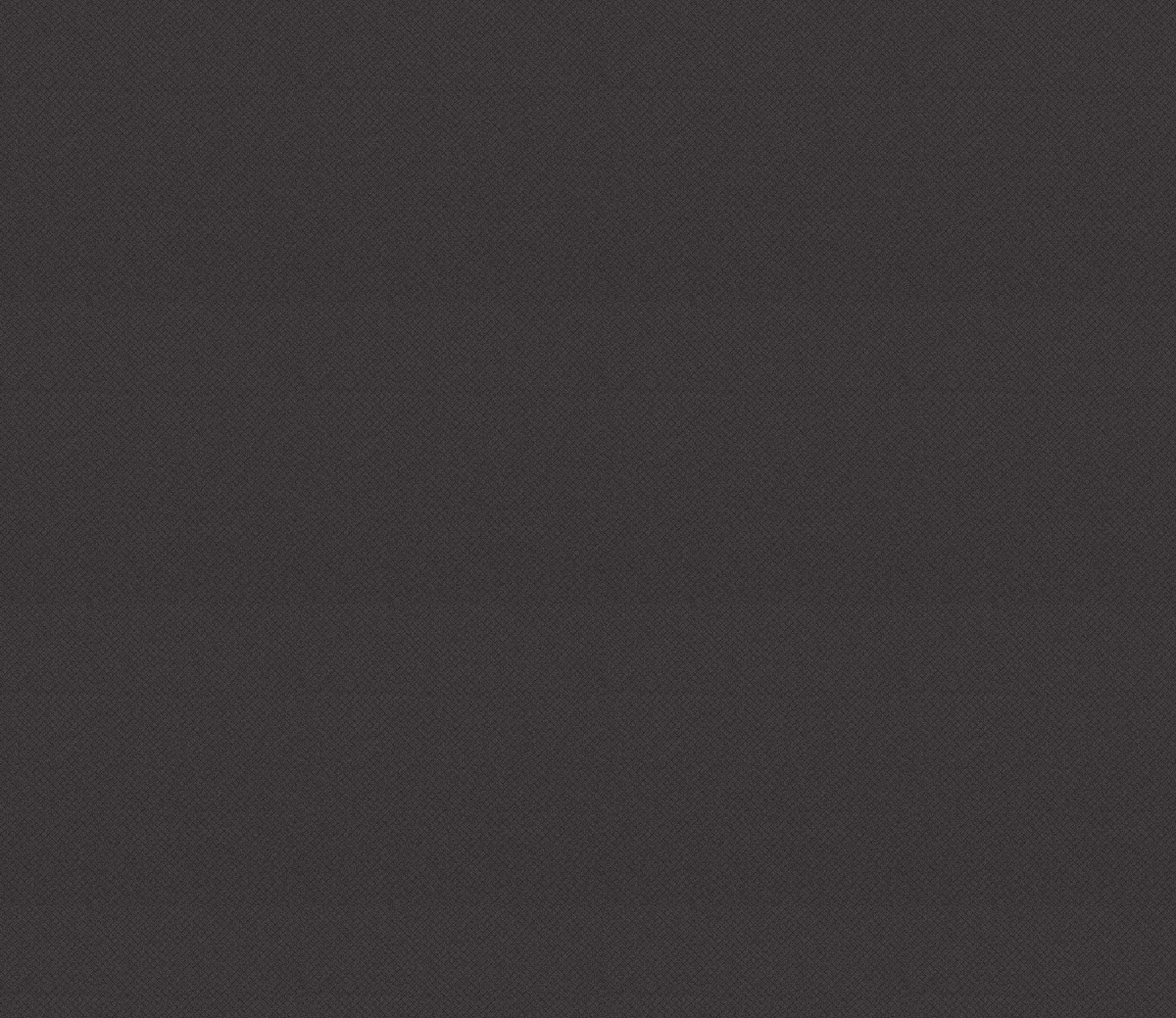
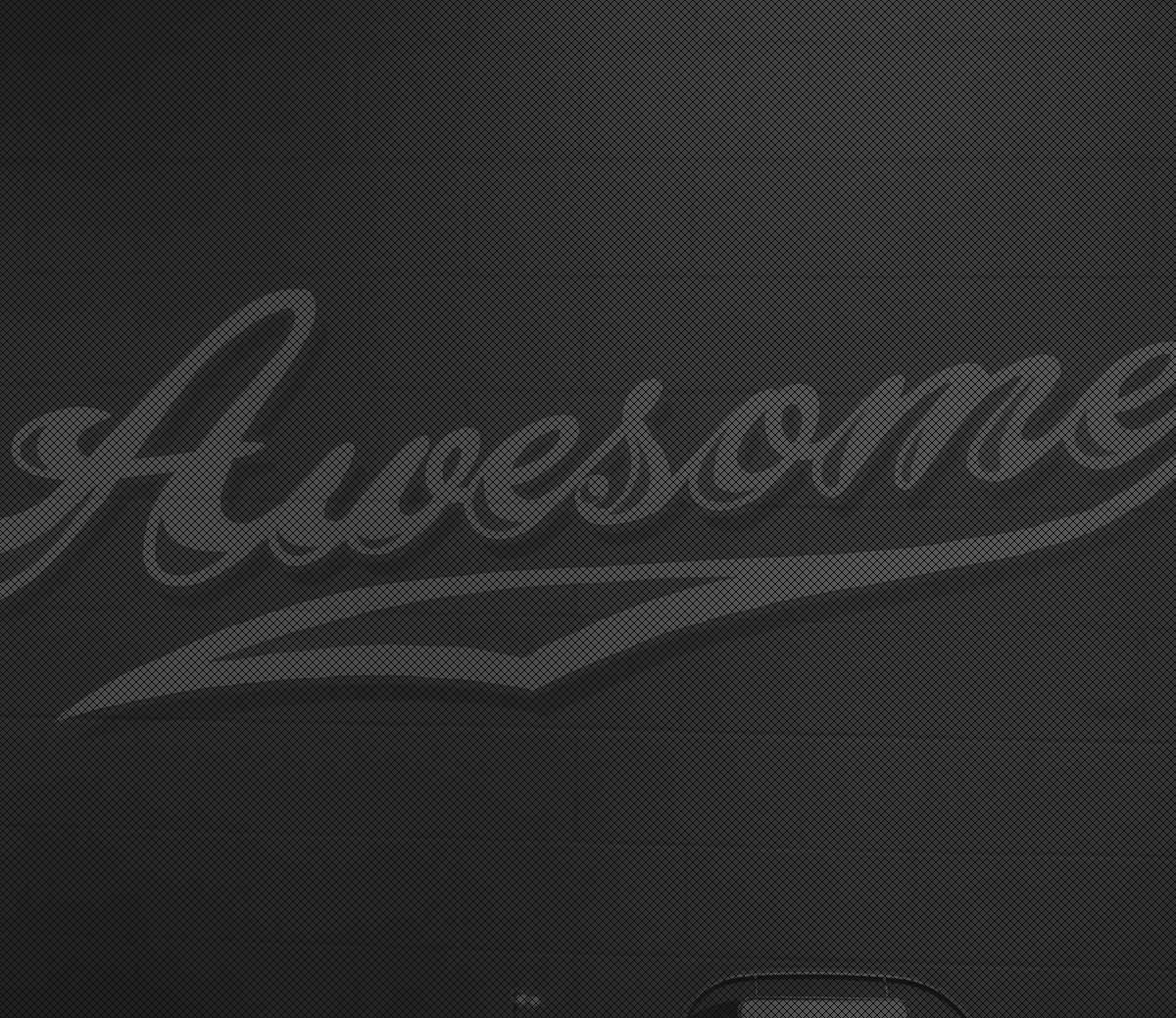
updated images

diff --git a/css/styles.css b/css/styles.css
@@ -1,1 +1,1 @@
-html,body{height:100%;padding:0;margin:0;font-family:'Open Sans', sans-serif;font-size:100%;color:#292929;letter-spacing:.02em}*{-webkit-box-sizing:border-box;-moz-box-sizing:border-box;box-sizing:border-box}img{max-width:100%}a{color:#3faeec;text-decoration:none}a:hover{color:#1699e2}.button{width:100%;margin:0 0 1em;display:inline-block;background:#3faeec;color:#FFF;padding:0.5em 1em;border-radius:0.2em;font-size:1.1em;text-transform:uppercase;font-weight:500;-webkit-transition:.4s;transition:.4s}@media (min-width: 480px){.button{width:auto;margin:0 0.5em 1em}}.button:first-of-type{margin-left:0}.button:hover{background-color:#1699e2;text-shadow:0px 1px 1px #187ba3;color:#FFF}h1,h2,h3,h4,h5,h6{font-weight:normal}.title{font-size:2em;text-align:left}.video{position:relative;width:100%;padding:0;padding-top:75%}.video iframe{position:absolute;top:0;left:0;width:100%;height:100%}#wemake{margin:2em 0 1em 0}.left{float:left}#header{position:absolute;width:100%;z-index:100;padding:1rem}@media (min-width: 1024px){#header.fixed{position:fixed}}#home{display:none}@media (min-width: 768px){#home{float:left;color:#FFF;border:1px solid #FFF;border-radius:3px;padding:0.5em 1em;display:block}#home:hover{background:#FFF;color:#da4a8f}}#welcome{background-color:#222;margin:0px auto;padding:1rem;padding-top:80px}#welcome header{color:#FFF;font-size:1em}#welcome header h1,#welcome header h2{text-align:center;margin:1em auto}#welcome header h2{margin-bottom:0}#welcome header h1{font-size:1.6em;max-width:600px}#welcome header h1 a{color:#da4a8f}.menu a{margin-right:1em;font-size:0.75em}@media (min-width: 480px){.menu a{font-size:0.9em}}@media (min-width: 1024px){#welcome{width:50%;position:fixed;top:0;left:0;bottom:0;padding:2rem}#welcome header{position:absolute;bottom:1rem;padding:1rem 2rem;left:0;font-size:1.4em}#welcome header h1,#welcome header h2{text-align:left;margin:1em 0 0}}#projects{float:right}@media (min-width: 1024px){#projects{margin-left:50%;padding:0px}}#projects h1{font-size:5rem;margin:0}#project_list{list-style-type:none;margin:0;padding:0}#project_list li{margin-top:3rem;margin-bottom:3rem;padding:0 2rem 2rem 2rem;border-bottom:1px solid #e4e4e4}#project_list li.centered{text-align:center}#project_list li.unpadded{padding-left:0;padding-right:0;padding-bottom:0}#project_list li.unpadded h3{padding-left:2rem;padding-right:2rem}#project_list li.nobottom{border-bottom:0;padding-bottom:0;margin-bottom:0}#project_list li.hr{padding:0;border:0}#project_list li:first-child{border-bottom:0}#project_list li:last-child{border-bottom:0}#project_list li ul{list-style-type:none;padding:0;margin:0}#project_list li ul:after{display:table;clear:both;content:' '}#project_list li .featured_posts li{background:#F4F0F1;border:0;margin:0 0 2px;padding:1rem 2rem}#project_list li .featured_posts li a{display:block;text-transform:uppercase;font-size:1.25em}#project_list li .github li{padding:1rem 0;margin:0;border-bottom:0;font-size:24px;text-align:left}@media (min-width: 480px){#project_list li .github li{float:left;width:50%}}#project_list a{text-decoration:none}#project_list h1{padding:1rem}#project_list h2{padding:0rem}#project_list p{padding:1rem 0;text-align:left;margin:0px auto;font-size:1.2em;line-height:1.6em;letter-spacing:.01em}div.tagsinput{border:1px solid #CCC;background:#FFF;padding:1em;margin-bottom:1em;width:300px;height:100px;overflow-y:auto}div.tagsinput span.tag{border:1px solid #a5d24a;-moz-border-radius:2px;-webkit-border-radius:2px;display:block;float:left;padding:0.5em;text-decoration:none;background:#cde69c;color:#638421;margin-right:0.5em;margin-bottom:0.5em;font-size:1.5em}div.tagsinput span.tag a{font-weight:bold;color:#82ad2b;text-decoration:none;font-size:1em}div.tagsinput input{width:80px;margin:0px;font-family:helvetica;border:1px solid transparent;padding:5px;background:transparent;color:#000;outline:0px;padding:0.5em;margin-right:0.5em;margin-bottom:0.5em;font-size:1.5em}div.tagsinput div{display:block;float:left}.tags_clear{clear:both;width:100%;height:0px}.not_valid{background:#FBD8DB !important;color:#90111A !important}.article{max-width:44em;margin:0 auto;margin-top:-5em;font-size:1.25em;background-color:#fff;padding:1em 4em;font-weight:400;border-radius:5px}.article:after{display:table;clear:both;content:' '}.article h1{font-size:3em;text-transform:uppercase;font-weight:600;margin:0}.article p{line-height:150%}.article p:first-of-type{font-weight:600}.article blockquote{margin-left:-2em;margin-right:-2em;text-align:justify;font-size:1.25em;color:#da4a8f}.article a{-webkit-transition:background 0.5s linear;transition:background 0.5s linear}.article a:hover{background:#b3e0f8}.coverimg{background-image:url(img/bigheader.jpg);background-position:center top;height:300px;z-index:-1}@media (min-width: 1000px){.coverimg{background-attachment:fixed}}.bio{margin-bottom:1em}@media (min-width: 640px){.bio img{float:left;max-width:30%;margin-right:1em}}.bio:after{display:table;clear:both;content:' '}.bio .third{margin-bottom:2em;margin-top:.5em}.about{max-width:44em;margin:0 auto;font-size:1.25em;background-color:#fff;padding:1em 4em;font-weight:400;color:#383535}.about img{-webkit-filter:grayscale(100%);filter:grayscale(100%);-webkit-transition:all 0.5s linear;transition:all 0.5s linear}.bio:hover img{-webkit-filter:grayscale(50%);filter:grayscale(50%)}.about .social img{width:34px;float:right;-webkit-filter:grayscale(0%);filter:grayscale(0%);margin-top:-28px}.about h1{margin:-5px 0;font-weight:200;font-size:1.5em;padding:10px 0 0 0}.about h2{margin:0;font-weight:200;color:#777;font-size:1.2em}.about p{font-size:18px;padding:5px}.about2{float:none}.social{width:100%}.social li{float:left;margin:0px auto}@media (max-width: 800px){.article{padding:1em}.article blockquote{margin-left:0;margin-right:0}.about{margin:0 1em;padding:0}.third{max-width:45%}#welcome header{font-size:1em}}@media (max-width: 530px){.article{margin-top:-10em}.article blockquote{text-align:left}.third{max-width:100%}#project_list li li{width:100%}}#footer{padding:2em 0;font-size:0.9em}#footer:after{display:table;clear:both;content:' '}#footer .thirds{text-align:center;padding:0.5em 0 0}@media (min-width: 760px){#footer .thirds{padding:0;width:33%;float:left}}ul#animated_logo{display:block;list-style-type:none;margin:0px auto;padding:0;position:relative;width:396px;max-width:100%;height:77px}ul#animated_logo li{position:relative;display:block;max-width:-webkit-calc(20% - 2px);max-width:calc(20% - 2px);width:77px;height:77px;margin-right:2px;top:-80px;float:left;-webkit-transition:all 0.5s ease;transition:all 0.5s ease}@media (min-width: 1024px){ul#animated_logo{margin:0px}.centered ul#animated_logo{margin:0px auto}}
+html,body{height:100%;padding:0;margin:0;font-family:'Open Sans', sans-serif;font-size:100%;color:#292929;letter-spacing:.02em}*{-webkit-box-sizing:border-box;-moz-box-sizing:border-box;box-sizing:border-box}img{max-width:100%}a{color:#3faeec;text-decoration:none}a:hover{color:#1699e2}.button{width:100%;margin:0 0 1em;display:inline-block;background:#3faeec;color:#FFF;padding:0.5em 1em;border-radius:0.2em;font-size:1.1em;text-transform:uppercase;font-weight:500;-webkit-transition:.4s;transition:.4s}@media (min-width: 480px){.button{width:auto;margin:0 0.5em 1em}}.button:first-of-type{margin-left:0}.button:hover{background-color:#1699e2;text-shadow:0px 1px 1px #187ba3;color:#FFF}h1,h2,h3,h4,h5,h6{font-weight:normal}.title{font-size:2em;text-align:left}.video{position:relative;width:100%;padding:0;padding-top:75%}.video iframe{position:absolute;top:0;left:0;width:100%;height:100%}#wemake{margin:2em 0 1em 0}.left{float:left}.typeform-widget{border:1px solid #3faeec}#header{position:absolute;width:100%;z-index:100;padding:1rem}@media (min-width: 1024px){#header.fixed{position:fixed}}#home{display:none}@media (min-width: 768px){#home{float:left;color:#FFF;background-color:#3faeec;border:1px solid #FFF;border-radius:3px;padding:0.5em 1em;display:block}#home:hover{background-color:#1699e2}}#welcome{background-position:bottom right;background-repeat:no-repeat;background-color:#222;margin:0px auto;padding:1rem;padding-top:80px}#welcome header{color:#FFF;font-size:1em}#welcome header h1,#welcome header h2{text-align:center;margin:1em auto}#welcome header h2{margin-bottom:0}#welcome header h1{font-size:1.6em;max-width:600px}#welcome header h1 a{color:#eb008b}.menu a{margin-right:1em;font-size:0.75em}@media (min-width: 480px){.menu a{font-size:0.9em}}@media (min-width: 1024px){#welcome{width:50%;position:fixed;top:0;left:0;bottom:0;padding:2rem}#welcome header{position:absolute;bottom:1rem;padding:1rem 2rem;left:0;font-size:1.4em}#welcome header h1,#welcome header h2{text-align:left;margin:1em 0 0}}#projects{float:right}@media (min-width: 1024px){#projects{margin-left:50%;padding:0px}}#projects h1{font-size:5rem;margin:0}#project_list{list-style-type:none;margin:0;padding:0}#project_list li{margin-top:3rem;margin-bottom:3rem;padding:0 2rem 2rem 2rem;border-bottom:1px solid #e4e4e4}#project_list li.centered{text-align:center}#project_list li.unpadded{padding-left:0;padding-right:0;padding-bottom:0}#project_list li.unpadded h3{padding-left:2rem;padding-right:2rem}#project_list li.nobottom{border-bottom:0;padding-bottom:0;margin-bottom:0}#project_list li.hr{padding:0;border:0}#project_list li:first-child{border-bottom:0}#project_list li:last-child{border-bottom:0}#project_list li ul{list-style-type:none;padding:0;margin:0}#project_list li ul:after{display:table;clear:both;content:' '}#project_list li .featured_posts li{background:#F4F0F1;border:0;margin:0 0 2px;padding:1rem 2rem}#project_list li .featured_posts li a{display:block;text-transform:uppercase;font-size:1.25em}#project_list li .github li{padding:1rem 0;margin:0;border-bottom:0;font-size:24px;text-align:left}@media (min-width: 480px){#project_list li .github li{float:left;width:50%}}#project_list a{text-decoration:none}#project_list h1{padding:1rem}#project_list h2{padding:0rem}#project_list p{padding:1rem 0;text-align:left;margin:0px auto;font-size:1.2em;line-height:1.6em;letter-spacing:.01em}div.tagsinput{border:1px solid #CCC;background:#FFF;padding:1em;margin-bottom:1em;width:300px;height:100px;overflow-y:auto}div.tagsinput span.tag{border:1px solid #a5d24a;-moz-border-radius:2px;-webkit-border-radius:2px;display:block;float:left;padding:0.5em;text-decoration:none;background:#cde69c;color:#638421;margin-right:0.5em;margin-bottom:0.5em;font-size:1.5em}div.tagsinput span.tag a{font-weight:bold;color:#82ad2b;text-decoration:none;font-size:1em}div.tagsinput input{width:80px;margin:0px;font-family:helvetica;border:1px solid transparent;padding:5px;background:transparent;color:#000;outline:0px;padding:0.5em;margin-right:0.5em;margin-bottom:0.5em;font-size:1.5em}div.tagsinput div{display:block;float:left}.tags_clear{clear:both;width:100%;height:0px}.not_valid{background:#FBD8DB !important;color:#90111A !important}.article{max-width:44em;margin:0 auto;margin-top:-5em;font-size:1.25em;background-color:#fff;padding:1em 4em;font-weight:400;border-radius:5px}.article:after{display:table;clear:both;content:' '}.article h1{font-size:3em;text-transform:uppercase;font-weight:600;margin:0}.article p{line-height:150%}.article p:first-of-type{font-weight:600}.article blockquote{margin-left:-2em;margin-right:-2em;text-align:justify;font-size:1.25em;color:#eb008b}.article a{-webkit-transition:background 0.5s linear;transition:background 0.5s linear}.article a:hover{background:#b3e0f8}.coverimg{background-color:#eb008b;background-image:url(img/dispatchgray_360.png);background-position:center top;height:300px;z-index:-1}@media (min-width: 1000px){.coverimg{background-attachment:fixed}}.bio{margin-bottom:1em}@media (min-width: 640px){.bio img{float:left;max-width:30%;margin-right:1em}}.bio:after{display:table;clear:both;content:' '}.bio .third{margin-bottom:2em;margin-top:.5em}.about{max-width:44em;margin:0 auto;font-size:1.25em;background-color:#fff;padding:1em 4em;font-weight:400;color:#383535}.about img{-webkit-filter:grayscale(100%);filter:grayscale(100%);-webkit-transition:all 0.5s linear;transition:all 0.5s linear}.bio:hover img{-webkit-filter:grayscale(50%);filter:grayscale(50%)}.about .social img{width:34px;float:right;-webkit-filter:grayscale(0%);filter:grayscale(0%);margin-top:-28px}.about h1{margin:-5px 0;font-weight:200;font-size:1.5em;padding:10px 0 0 0}.about h2{margin:0;font-weight:200;color:#777;font-size:1.2em}.about p{font-size:18px;padding:5px}.about2{float:none}.social{width:100%}.social li{float:left;margin:0px auto}@media (max-width: 800px){.article{padding:1em}.article blockquote{margin-left:0;margin-right:0}.about{margin:0 1em;padding:0}.third{max-width:45%}#welcome header{font-size:1em}}@media (max-width: 530px){.article{margin-top:-10em}.article blockquote{text-align:left}.third{max-width:100%}#project_list li li{width:100%}}#footer{padding:2em 0;font-size:0.9em}#footer:after{display:table;clear:both;content:' '}#footer .thirds{text-align:center;padding:0.5em 0 0}@media (min-width: 760px){#footer .thirds{padding:0;width:33%;float:left}}ul#animated_logo{display:block;list-style-type:none;margin:0px auto;padding:0;position:relative;width:396px;max-width:100%;height:77px}ul#animated_logo li{position:relative;display:block;max-width:-webkit-calc(20% - 2px);max-width:calc(20% - 2px);width:77px;height:77px;margin-right:2px;top:-80px;float:left;-webkit-transition:all 0.5s ease;transition:all 0.5s ease}@media (min-width: 1024px){ul#animated_logo{margin:0px}.centered ul#animated_logo{margin:0px auto}}

diff --git a/css/styles.pre.css b/css/styles.pre.css
@@ -1,1 +1,1 @@
-html,body{height:100%;padding:0;margin:0;font-family:'Open Sans', sans-serif;font-size:100%;color:#292929;letter-spacing:.02em}*{box-sizing:border-box}img{max-width:100%}a{color:#3faeec;text-decoration:none}a:hover{color:#1699e2}.button{width:100%;margin:0 0 1em;display:inline-block;background:#3faeec;color:#FFF;padding:0.5em 1em;border-radius:0.2em;font-size:1.1em;text-transform:uppercase;font-weight:500;transition:.4s}@media (min-width: 480px){.button{width:auto;margin:0 0.5em 1em}}.button:first-of-type{margin-left:0}.button:hover{background-color:#1699e2;text-shadow:0px 1px 1px #187ba3;color:#FFF}h1,h2,h3,h4,h5,h6{font-weight:normal}.title{font-size:2em;text-align:left}.video{position:relative;width:100%;padding:0;padding-top:75%}.video iframe{position:absolute;top:0;left:0;width:100%;height:100%}#wemake{margin:2em 0 1em 0}.left{float:left}#header{position:absolute;width:100%;z-index:100;padding:1rem}@media (min-width: 1024px){#header.fixed{position:fixed}}#home{display:none}@media (min-width: 768px){#home{float:left;color:#FFF;border:1px solid #FFF;border-radius:3px;padding:0.5em 1em;display:block}#home:hover{background:#FFF;color:#da4a8f}}#welcome{background-color:#222;margin:0px auto;padding:1rem;padding-top:80px}#welcome header{color:#FFF;font-size:1em}#welcome header h1,#welcome header h2{text-align:center;margin:1em auto}#welcome header h2{margin-bottom:0}#welcome header h1{font-size:1.6em;max-width:600px}#welcome header h1 a{color:#da4a8f}.menu a{margin-right:1em;font-size:0.75em}@media (min-width: 480px){.menu a{font-size:0.9em}}@media (min-width: 1024px){#welcome{width:50%;position:fixed;top:0;left:0;bottom:0;padding:2rem}#welcome header{position:absolute;bottom:1rem;padding:1rem 2rem;left:0;font-size:1.4em}#welcome header h1,#welcome header h2{text-align:left;margin:1em 0 0}}#projects{float:right}@media (min-width: 1024px){#projects{margin-left:50%;padding:0px}}#projects h1{font-size:5rem;margin:0}#project_list{list-style-type:none;margin:0;padding:0}#project_list li{margin-top:3rem;margin-bottom:3rem;padding:0 2rem 2rem 2rem;border-bottom:1px solid #e4e4e4}#project_list li.centered{text-align:center}#project_list li.unpadded{padding-left:0;padding-right:0;padding-bottom:0}#project_list li.unpadded h3{padding-left:2rem;padding-right:2rem}#project_list li.nobottom{border-bottom:0;padding-bottom:0;margin-bottom:0}#project_list li.hr{padding:0;border:0}#project_list li:first-child{border-bottom:0}#project_list li:last-child{border-bottom:0}#project_list li ul{list-style-type:none;padding:0;margin:0}#project_list li ul:after{display:table;clear:both;content:' '}#project_list li .featured_posts li{background:#F4F0F1;border:0;margin:0 0 2px;padding:1rem 2rem}#project_list li .featured_posts li a{display:block;text-transform:uppercase;font-size:1.25em}#project_list li .github li{padding:1rem 0;margin:0;border-bottom:0;font-size:24px;text-align:left}@media (min-width: 480px){#project_list li .github li{float:left;width:50%}}#project_list a{text-decoration:none}#project_list h1{padding:1rem}#project_list h2{padding:0rem}#project_list p{padding:1rem 0;text-align:left;margin:0px auto;font-size:1.2em;line-height:1.6em;letter-spacing:.01em}div.tagsinput{border:1px solid #CCC;background:#FFF;padding:1em;margin-bottom:1em;width:300px;height:100px;overflow-y:auto}div.tagsinput span.tag{border:1px solid #a5d24a;-moz-border-radius:2px;-webkit-border-radius:2px;display:block;float:left;padding:0.5em;text-decoration:none;background:#cde69c;color:#638421;margin-right:0.5em;margin-bottom:0.5em;font-size:1.5em}div.tagsinput span.tag a{font-weight:bold;color:#82ad2b;text-decoration:none;font-size:1em}div.tagsinput input{width:80px;margin:0px;font-family:helvetica;border:1px solid transparent;padding:5px;background:transparent;color:#000;outline:0px;padding:0.5em;margin-right:0.5em;margin-bottom:0.5em;font-size:1.5em}div.tagsinput div{display:block;float:left}.tags_clear{clear:both;width:100%;height:0px}.not_valid{background:#FBD8DB !important;color:#90111A !important}.article{max-width:44em;margin:0 auto;margin-top:-5em;font-size:1.25em;background-color:#fff;padding:1em 4em;font-weight:400;border-radius:5px}.article:after{display:table;clear:both;content:' '}.article h1{font-size:3em;text-transform:uppercase;font-weight:600;margin:0}.article p{line-height:150%}.article p:first-of-type{font-weight:600}.article blockquote{margin-left:-2em;margin-right:-2em;text-align:justify;font-size:1.25em;color:#da4a8f}.article a{transition:background 0.5s linear}.article a:hover{background:#b3e0f8}.coverimg{background-image:url(img/bigheader.jpg);background-position:center top;height:300px;z-index:-1}@media (min-width: 1000px){.coverimg{background-attachment:fixed}}.bio{margin-bottom:1em}@media (min-width: 640px){.bio img{float:left;max-width:30%;margin-right:1em}}.bio:after{display:table;clear:both;content:' '}.bio .third{margin-bottom:2em;margin-top:.5em}.about{max-width:44em;margin:0 auto;font-size:1.25em;background-color:#fff;padding:1em 4em;font-weight:400;color:#383535}.about img{filter:grayscale(100%);transition:all 0.5s linear}.bio:hover img{filter:grayscale(50%)}.about .social img{width:34px;float:right;filter:grayscale(0%);margin-top:-28px}.about h1{margin:-5px 0;font-weight:200;font-size:1.5em;padding:10px 0 0 0}.about h2{margin:0;font-weight:200;color:#777;font-size:1.2em}.about p{font-size:18px;padding:5px}.about2{float:none}.social{width:100%}.social li{float:left;margin:0px auto}@media (max-width: 800px){.article{padding:1em}.article blockquote{margin-left:0;margin-right:0}.about{margin:0 1em;padding:0}.third{max-width:45%}#welcome header{font-size:1em}}@media (max-width: 530px){.article{margin-top:-10em}.article blockquote{text-align:left}.third{max-width:100%}#project_list li li{width:100%}}#footer{padding:2em 0;font-size:0.9em}#footer:after{display:table;clear:both;content:' '}#footer .thirds{text-align:center;padding:0.5em 0 0}@media (min-width: 760px){#footer .thirds{padding:0;width:33%;float:left}}ul#animated_logo{display:block;list-style-type:none;margin:0px auto;padding:0;position:relative;width:396px;max-width:100%;height:77px}ul#animated_logo li{position:relative;display:block;max-width:calc(20% - 2px);width:77px;height:77px;margin-right:2px;top:-80px;float:left;transition:all 0.5s ease}@media (min-width: 1024px){ul#animated_logo{margin:0px}.centered ul#animated_logo{margin:0px auto}}
+html,body{height:100%;padding:0;margin:0;font-family:'Open Sans', sans-serif;font-size:100%;color:#292929;letter-spacing:.02em}*{box-sizing:border-box}img{max-width:100%}a{color:#3faeec;text-decoration:none}a:hover{color:#1699e2}.button{width:100%;margin:0 0 1em;display:inline-block;background:#3faeec;color:#FFF;padding:0.5em 1em;border-radius:0.2em;font-size:1.1em;text-transform:uppercase;font-weight:500;transition:.4s}@media (min-width: 480px){.button{width:auto;margin:0 0.5em 1em}}.button:first-of-type{margin-left:0}.button:hover{background-color:#1699e2;text-shadow:0px 1px 1px #187ba3;color:#FFF}h1,h2,h3,h4,h5,h6{font-weight:normal}.title{font-size:2em;text-align:left}.video{position:relative;width:100%;padding:0;padding-top:75%}.video iframe{position:absolute;top:0;left:0;width:100%;height:100%}#wemake{margin:2em 0 1em 0}.left{float:left}.typeform-widget{border:1px solid #3faeec}#header{position:absolute;width:100%;z-index:100;padding:1rem}@media (min-width: 1024px){#header.fixed{position:fixed}}#home{display:none}@media (min-width: 768px){#home{float:left;color:#FFF;background-color:#3faeec;border:1px solid #FFF;border-radius:3px;padding:0.5em 1em;display:block}#home:hover{background-color:#1699e2}}#welcome{background-position:bottom right;background-repeat:no-repeat;background-color:#222;margin:0px auto;padding:1rem;padding-top:80px}#welcome header{color:#FFF;font-size:1em}#welcome header h1,#welcome header h2{text-align:center;margin:1em auto}#welcome header h2{margin-bottom:0}#welcome header h1{font-size:1.6em;max-width:600px}#welcome header h1 a{color:#eb008b}.menu a{margin-right:1em;font-size:0.75em}@media (min-width: 480px){.menu a{font-size:0.9em}}@media (min-width: 1024px){#welcome{width:50%;position:fixed;top:0;left:0;bottom:0;padding:2rem}#welcome header{position:absolute;bottom:1rem;padding:1rem 2rem;left:0;font-size:1.4em}#welcome header h1,#welcome header h2{text-align:left;margin:1em 0 0}}#projects{float:right}@media (min-width: 1024px){#projects{margin-left:50%;padding:0px}}#projects h1{font-size:5rem;margin:0}#project_list{list-style-type:none;margin:0;padding:0}#project_list li{margin-top:3rem;margin-bottom:3rem;padding:0 2rem 2rem 2rem;border-bottom:1px solid #e4e4e4}#project_list li.centered{text-align:center}#project_list li.unpadded{padding-left:0;padding-right:0;padding-bottom:0}#project_list li.unpadded h3{padding-left:2rem;padding-right:2rem}#project_list li.nobottom{border-bottom:0;padding-bottom:0;margin-bottom:0}#project_list li.hr{padding:0;border:0}#project_list li:first-child{border-bottom:0}#project_list li:last-child{border-bottom:0}#project_list li ul{list-style-type:none;padding:0;margin:0}#project_list li ul:after{display:table;clear:both;content:' '}#project_list li .featured_posts li{background:#F4F0F1;border:0;margin:0 0 2px;padding:1rem 2rem}#project_list li .featured_posts li a{display:block;text-transform:uppercase;font-size:1.25em}#project_list li .github li{padding:1rem 0;margin:0;border-bottom:0;font-size:24px;text-align:left}@media (min-width: 480px){#project_list li .github li{float:left;width:50%}}#project_list a{text-decoration:none}#project_list h1{padding:1rem}#project_list h2{padding:0rem}#project_list p{padding:1rem 0;text-align:left;margin:0px auto;font-size:1.2em;line-height:1.6em;letter-spacing:.01em}div.tagsinput{border:1px solid #CCC;background:#FFF;padding:1em;margin-bottom:1em;width:300px;height:100px;overflow-y:auto}div.tagsinput span.tag{border:1px solid #a5d24a;-moz-border-radius:2px;-webkit-border-radius:2px;display:block;float:left;padding:0.5em;text-decoration:none;background:#cde69c;color:#638421;margin-right:0.5em;margin-bottom:0.5em;font-size:1.5em}div.tagsinput span.tag a{font-weight:bold;color:#82ad2b;text-decoration:none;font-size:1em}div.tagsinput input{width:80px;margin:0px;font-family:helvetica;border:1px solid transparent;padding:5px;background:transparent;color:#000;outline:0px;padding:0.5em;margin-right:0.5em;margin-bottom:0.5em;font-size:1.5em}div.tagsinput div{display:block;float:left}.tags_clear{clear:both;width:100%;height:0px}.not_valid{background:#FBD8DB !important;color:#90111A !important}.article{max-width:44em;margin:0 auto;margin-top:-5em;font-size:1.25em;background-color:#fff;padding:1em 4em;font-weight:400;border-radius:5px}.article:after{display:table;clear:both;content:' '}.article h1{font-size:3em;text-transform:uppercase;font-weight:600;margin:0}.article p{line-height:150%}.article p:first-of-type{font-weight:600}.article blockquote{margin-left:-2em;margin-right:-2em;text-align:justify;font-size:1.25em;color:#eb008b}.article a{transition:background 0.5s linear}.article a:hover{background:#b3e0f8}.coverimg{background-color:#eb008b;background-image:url(img/dispatchgray_360.png);background-position:center top;height:300px;z-index:-1}@media (min-width: 1000px){.coverimg{background-attachment:fixed}}.bio{margin-bottom:1em}@media (min-width: 640px){.bio img{float:left;max-width:30%;margin-right:1em}}.bio:after{display:table;clear:both;content:' '}.bio .third{margin-bottom:2em;margin-top:.5em}.about{max-width:44em;margin:0 auto;font-size:1.25em;background-color:#fff;padding:1em 4em;font-weight:400;color:#383535}.about img{filter:grayscale(100%);transition:all 0.5s linear}.bio:hover img{filter:grayscale(50%)}.about .social img{width:34px;float:right;filter:grayscale(0%);margin-top:-28px}.about h1{margin:-5px 0;font-weight:200;font-size:1.5em;padding:10px 0 0 0}.about h2{margin:0;font-weight:200;color:#777;font-size:1.2em}.about p{font-size:18px;padding:5px}.about2{float:none}.social{width:100%}.social li{float:left;margin:0px auto}@media (max-width: 800px){.article{padding:1em}.article blockquote{margin-left:0;margin-right:0}.about{margin:0 1em;padding:0}.third{max-width:45%}#welcome header{font-size:1em}}@media (max-width: 530px){.article{margin-top:-10em}.article blockquote{text-align:left}.third{max-width:100%}#project_list li li{width:100%}}#footer{padding:2em 0;font-size:0.9em}#footer:after{display:table;clear:both;content:' '}#footer .thirds{text-align:center;padding:0.5em 0 0}@media (min-width: 760px){#footer .thirds{padding:0;width:33%;float:left}}ul#animated_logo{display:block;list-style-type:none;margin:0px auto;padding:0;position:relative;width:396px;max-width:100%;height:77px}ul#animated_logo li{position:relative;display:block;max-width:calc(20% - 2px);width:77px;height:77px;margin-right:2px;top:-80px;float:left;transition:all 0.5s ease}@media (min-width: 1024px){ul#animated_logo{margin:0px}.centered ul#animated_logo{margin:0px auto}}

diff --git a/contact.html b/contact.html
@@ -58,6 +58,8 @@
 			Fill in the form below to get started,
 			or <a href="mailto:info@xoxco.com?subject=New+Work">email us directly.</a>		
 		</p>
+
+
 <!-- Change the width and height values to suit you best -->
 <div class="typeform-widget" data-url="https://xoxcoinc.typeform.com/to/zJQi7c" data-text="Contact Us" style="width:100%;height:500px;"></div>
 <script>(function(){var qs,js,q,s,d=document,gi=d.getElementById,ce=d.createElement,gt=d.getElementsByTagName,id='typef_orm',b='https://s3-eu-west-1.amazonaws.com/share.typeform.com/';if(!gi.call(d,id)){js=ce.call(d,'script');js.id=id;js.src=b+'widget.js';q=gt.call(d,'script')[0];q.parentNode.insertBefore(js,q)}})()</script>

diff --git a/index.html b/index.html
@@ -111,10 +111,10 @@ artists, game developers, and kids of all ages.</h2>
 						<li><a href="http://notes.xoxco.com/post/41213044413">Publishers Should Publish, Not Chase Technological Trends</a>
 						by Adam Mathes</li>
 					
+						<li><a href="http://notes.xoxco.com/post/40790140616">Stop Making Websites</a>
+						by Ben Brown</li>
+					
 				</ul>
-			</li>			
-			<li class="hr">
-				<img src="img/diamondborder.png" alt="----------------------------------" />
 			</li>			
 			<li class="nobottom">
 				<img src="img/codeandtools.png" alt="Code & Tools" />

diff --git a/css/components/header.scss b/css/components/header.scss
@@ -25,14 +25,14 @@
 			#home {
 				float: left;
 				color: #FFF;
+				background-color: $blue;
 				border: 1px solid #FFF;
 				border-radius: 3px;
 				padding: 0.5em 1em;
 				display: block;
 			
 				&:hover {
-					background: #FFF;
-					color: $pink;
+					background-color: darken($blue,10%);
 				}
 			}
 		}

diff --git a/build.js b/build.js
@@ -3,7 +3,7 @@ var fs = require('fs');
 var http = require('http');
 
 
-http.get('http://xoxapi.herokuapp.com/featured_posts/3/400',function(res) {
+http.get('http://xoxapi.herokuapp.com/featured_posts/4/400',function(res) {
 
 	var json = '';
 

diff --git a/css/components/global.scss b/css/components/global.scss
@@ -1,6 +1,6 @@
 $blue: #3FAEEC;
 $lightblue: #B3E0F8;
-$pink: #DA4A8F;
+$pink: #EB008B;
 $lightpink: #E594B9;
 
 @mixin clearfix {
@@ -110,3 +110,8 @@ $lightpink: #E594B9;
 	float: left;
 }
 
+
+
+.typeform-widget {
+	border: 1px solid $blue;
+}

diff --git a/css/components/welcome.scss b/css/components/welcome.scss
@@ -1,7 +1,8 @@
 		
 		#welcome {
 
-/* 			background-image:url(img/awesome_bg.jpg); */
+			background-position: bottom right;
+			background-repeat: no-repeat;
 		    background-color: #222;
 			margin: 0px auto;
 			padding: 1rem;

diff --git a/css/components/article.scss b/css/components/article.scss
@@ -44,8 +44,10 @@
 }
 
 .coverimg {
-	background-image: url(img/bigheader.jpg);
+	background-color: $pink;	
+	background-image: url(img/dispatchgray_360.png);
 	background-position: center top;
+	
 	height: 300px;
 	z-index: -1;
 
